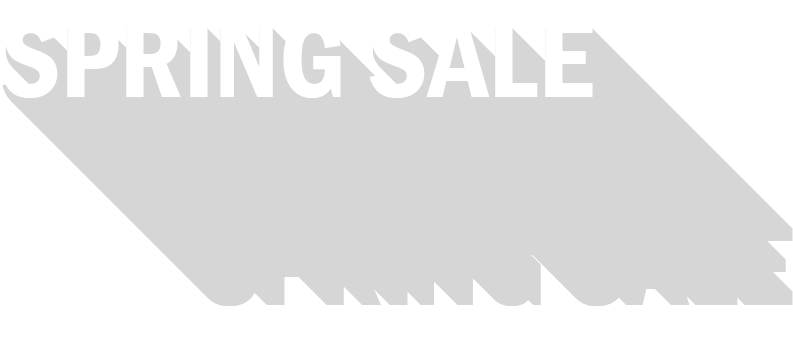
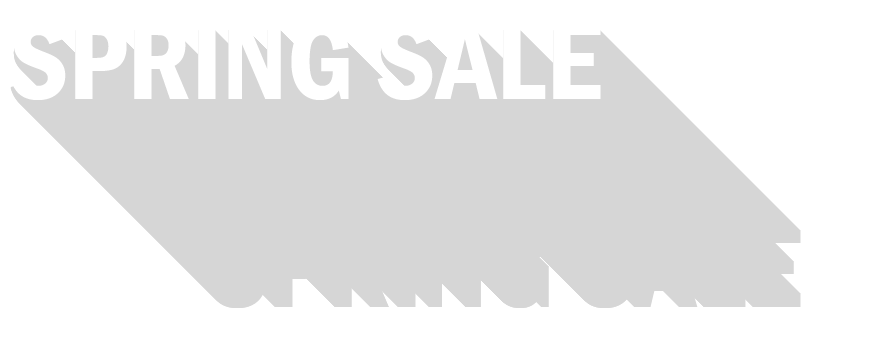
Added btn-shop to index and fixed image asset size removed hidden blog post

diff --git a/actualsite/update-detailed.html b/actualsite/update-detailed.html
@@ -90,43 +90,12 @@
             <h2>Use Code: SPACEJAM</h2>
             <a href="products-jetpacks.html" class="btn-shop">Shop Now</a>
           </div>
-          
+
         </div>
       </div>
       <div class="grid-col-2of12 grid-center">
       </div>
-
-            <!-- 
-            <a href="#" class="btn-next">Next</a>
-            <a href="#" class="btn-next">Previous</a>    
-          -->    
-        </div>
-
-
-
-
-
-        <div class="grid-row">
-          <div class="blog-post hidden">
-            <div class="grid-col-6of12">
-             <div class="blog-date">
-              <p>June 16th, 2016</p>
-            </div>
-            <div class="blog-image">
-             &nbsp;
-           </div>
-         </div>
-
-         <div class="grid-col-6of12">
-          <div class="blog-title"><h2>This is a blog title.</h2></div>
-          <div class="blog-text">
-            <p>It is a long established fact that a reader will be distracted by the readable content of a page when looking at its layout. The point of using Lorem Ipsum is that it has a more-or-less normal distribution of letters, as opposed to using 'Content here, content here', making it look like readable English. Many desktop publishing packages and web page editors now use Lorem Ipsum as their default model text, and a search for 'lorem ipsum' will uncover many web sites still in their infancy. Various versions have evolved over the years, sometimes by accident, sometimes on purpose (injected humour and the like).</p>
-          </div>
-        </div>
-      </div>
     </div>
-
-
 
 
   </div>

diff --git a/actualsite/index.html b/actualsite/index.html
@@ -50,7 +50,7 @@
                      <div class="mini-hero mini-hero-green">
                         <a href="products-jetpacks.html"><img src="img/spring_sale.png" alt="Spring Sale Promo Banner"></a>
                         <div class="mini-hero-text-wrapper">
-                           <a href="products-jetpacks.html" class="btn-mini"> Let's Shop</a>
+                           <a href="products-jetpacks.html" class="btn-shop">Let's Shop</a>
                         </div>
                      </div>
                   </div>
@@ -58,7 +58,7 @@
                      <div class="mini-hero mini-hero-red">
                         <a href="products-jetpacks.html"><img src="img/lightly_loved.png" alt="Lightly Loved Promo Banner"></a>
                         <div class="mini-hero-text-wrapper">
-                           <a href="products-jetpacks.html" class="btn-mini"> Check it out</a>
+                           <a href="products-jetpacks.html" class="btn-shop">Check it out</a>
                         </div>
                      </div>
                   </div>

diff --git a/actualsite/css/main.css b/actualsite/css/main.css
@@ -688,7 +688,7 @@
     text-decoration: none;
     border-radius: 3px;
     border-style: solid;
-    border-width: 2px;
+    border-width: 1px;
     border-color: white;
     color: #fff;
     -webkit-transition: background 0.25s ease-in-out;
@@ -1011,8 +1011,7 @@
 
 
   .mini-hero-text-wrapper {
-    padding: 4em;
-
+    margin-top: -2em;
   }
 
   .mini-hero-text-wrapper h2 {
@@ -1082,6 +1081,23 @@
 
   .mini-hero-red {
     background-color: #CF1C00;
+    text-align: center;
+    color: white;    
+  }
+  
+  .mini-hero-green h2 {
+    text-align: center;
+    color: white;    
+  }
+  
+  .mini-hero-red h2 {
+    text-align: center;
+    color: white;    
+  }
+  
+  .mini-hero-green h2 {
+    text-align: center;
+    color: white;    
   }
 
   .btn-mini {
